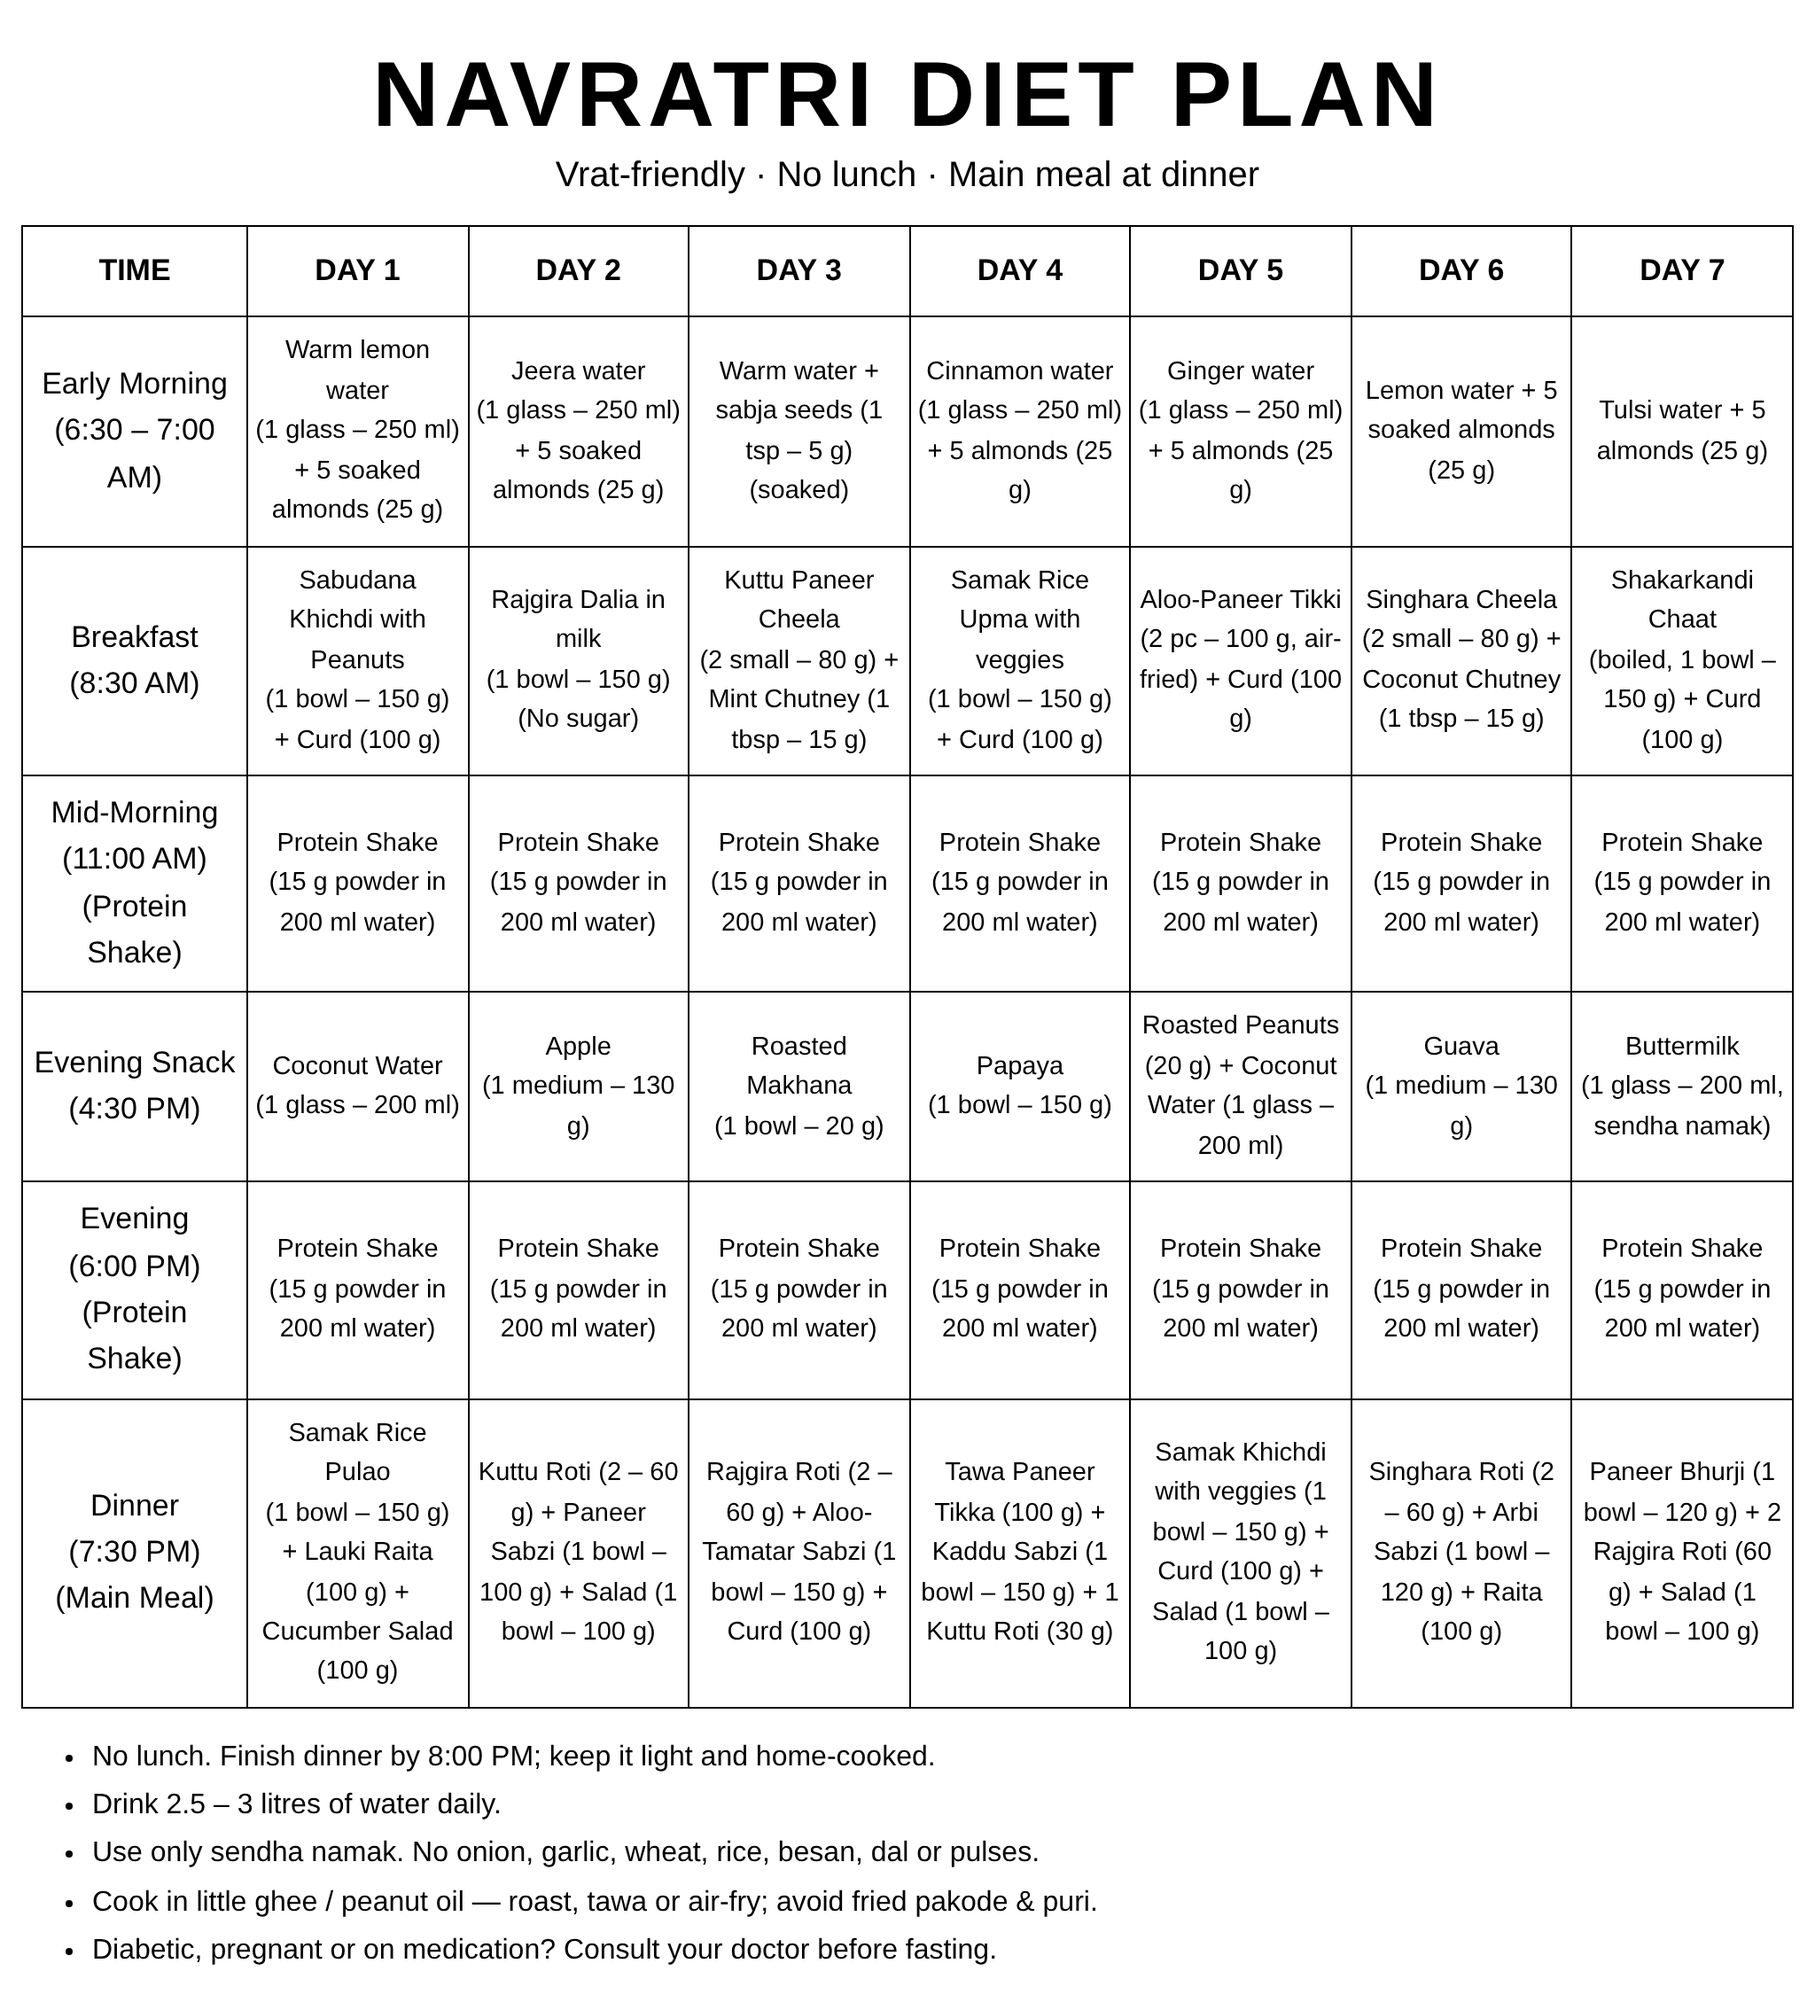
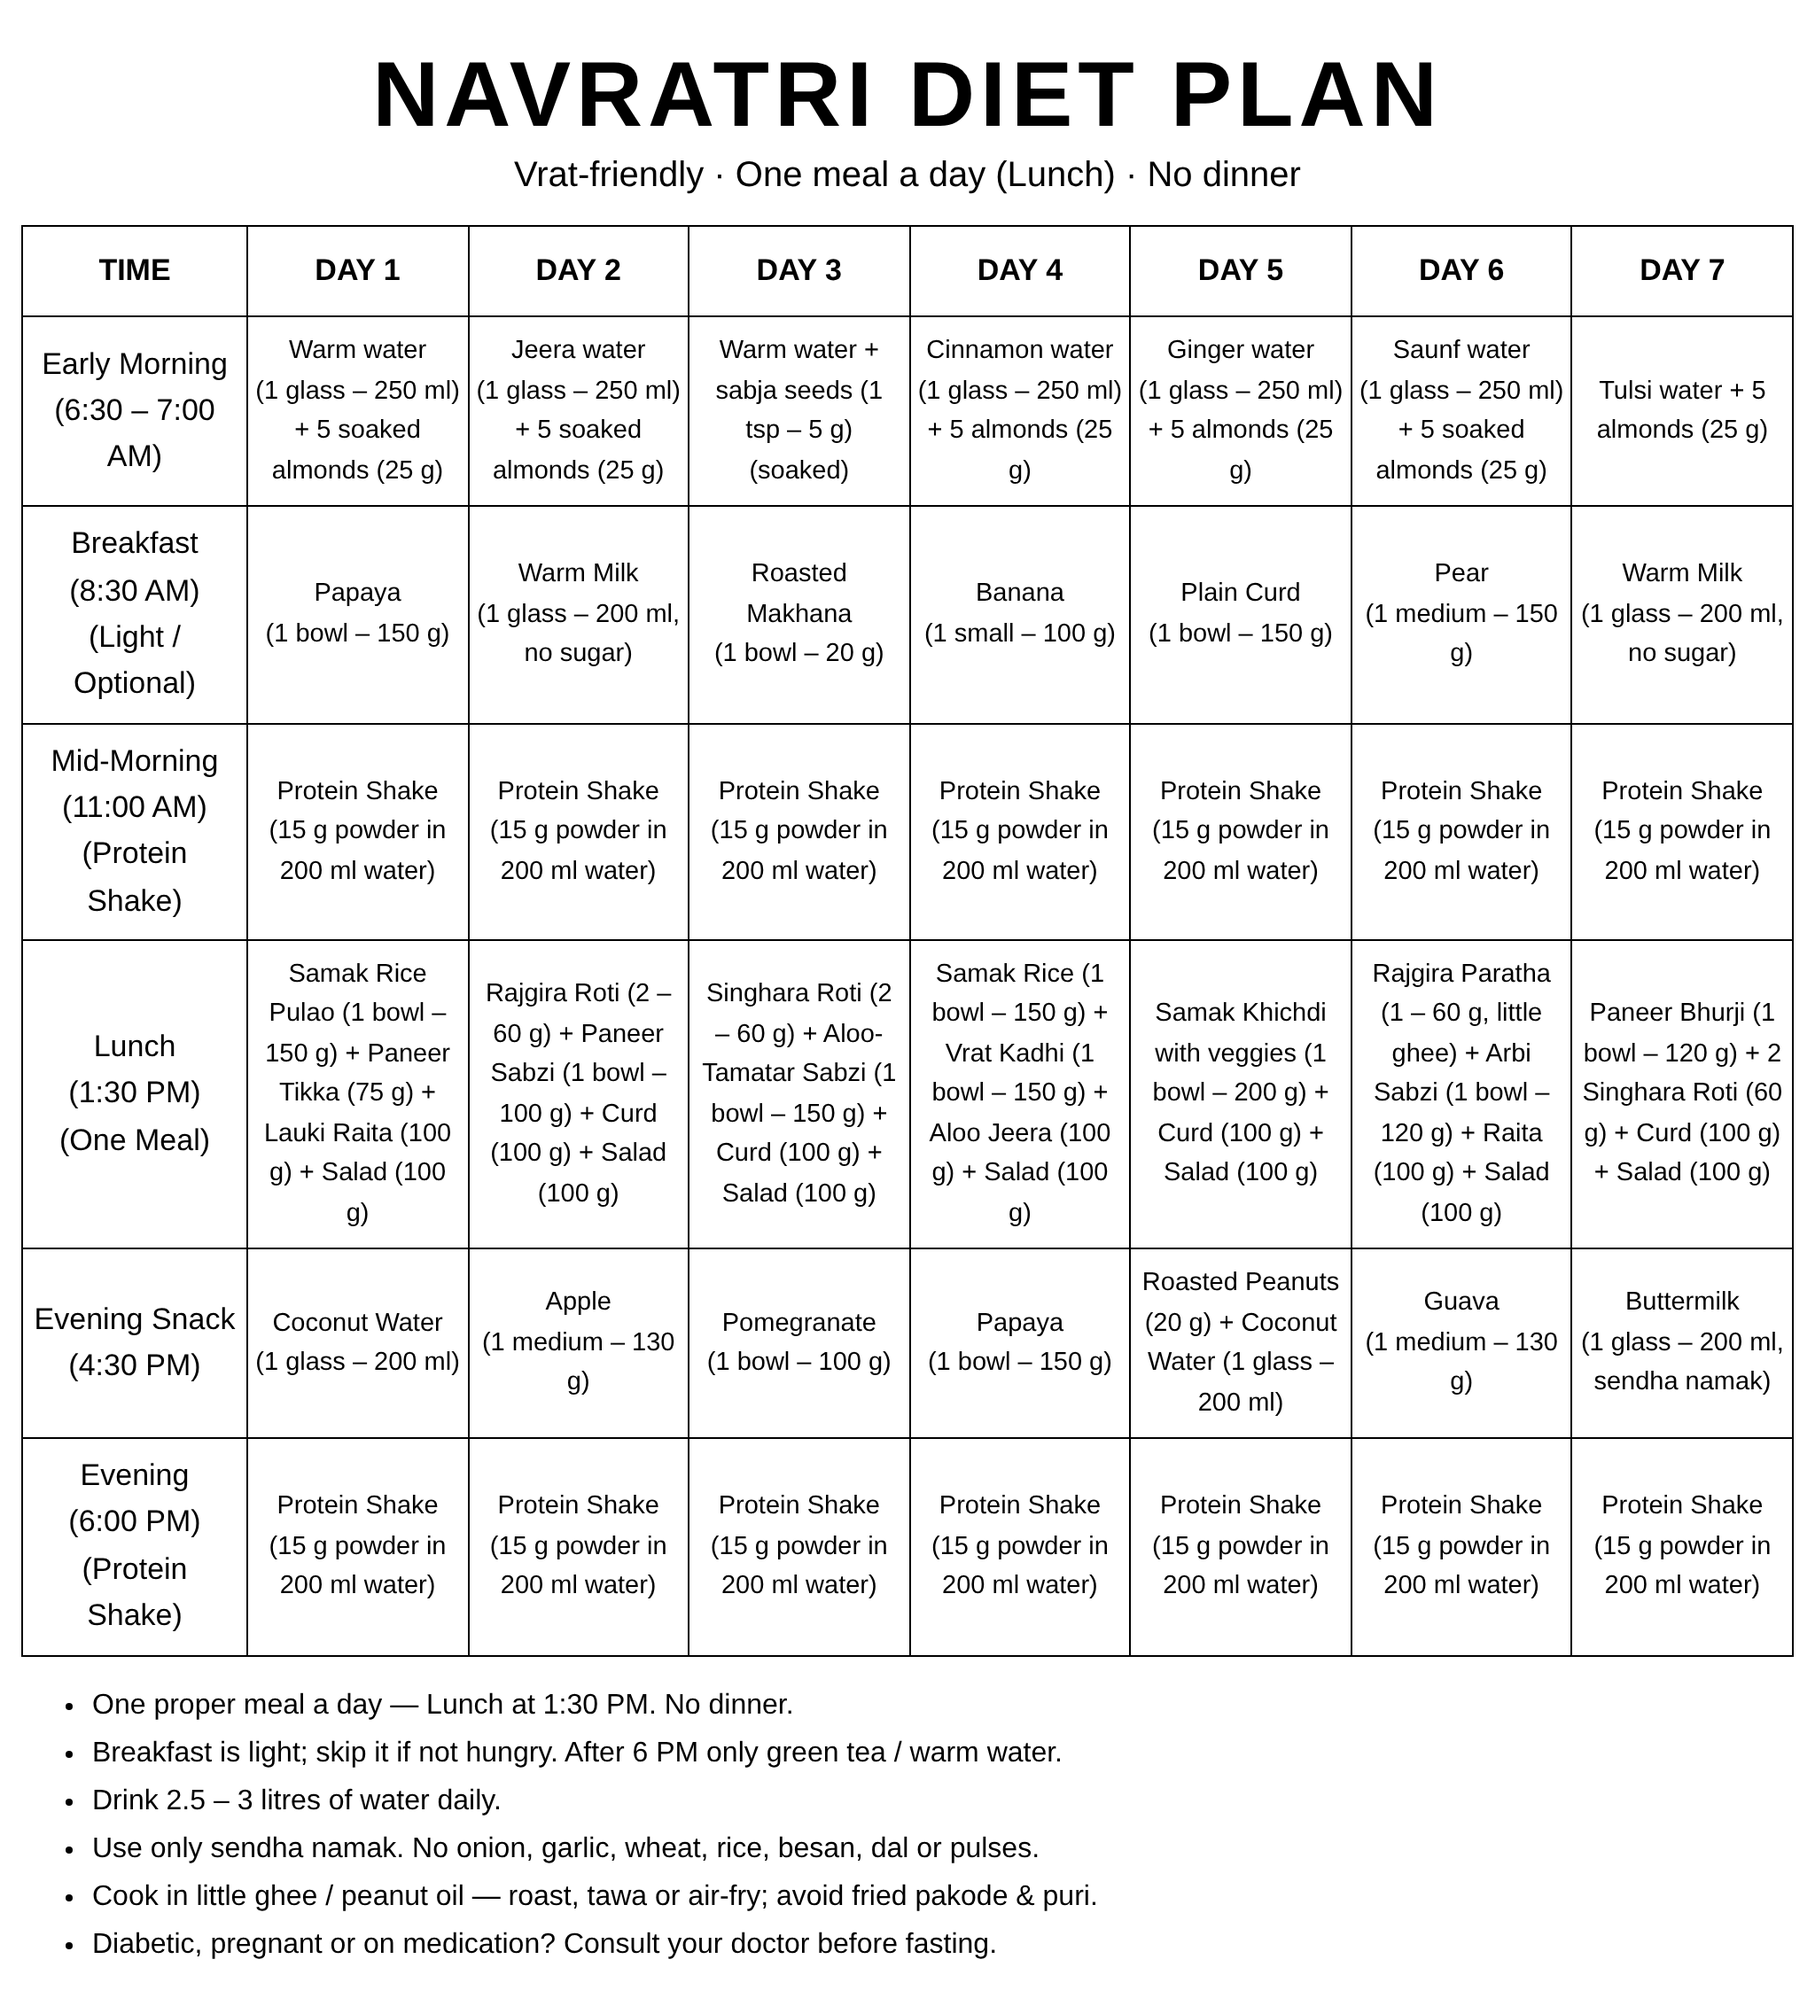
Navratri chart: one meal a day at lunch, light breakfast, no lemon water or kuttu
Claude-Session: https://claude.ai/code/session_01Hb85QWsiyrBDrnGKrgDRLs

diff --git a/charts/navratri-diet-plan.html b/charts/navratri-diet-plan.html
@@ -15,55 +15,19 @@ tr.skip td.x{font-size:18px;}
 ul{margin:14px 0 0 40px;padding:0;font-size:16px;line-height:1.7}
 </style></head><body><div class="page">
 <h1>NAVRATRI DIET PLAN</h1>
-<div class="sub">Vrat-friendly &middot; No lunch &middot; Main meal at dinner</div>
+<div class="sub">Vrat-friendly &middot; One meal a day (Lunch) &middot; No dinner</div>
 <table>
 <tr><th>TIME</th><th>DAY 1</th><th>DAY 2</th><th>DAY 3</th><th>DAY 4</th><th>DAY 5</th><th>DAY 6</th><th>DAY 7</th></tr>
-
-<tr><td>Early Morning<br>(6:30 – 7:00 AM)</td>
-<td>Warm lemon water<br>(1 glass – 250 ml) + 5 soaked almonds (25 g)</td>
-<td>Jeera water<br>(1 glass – 250 ml) + 5 soaked almonds (25 g)</td>
-<td>Warm water + sabja seeds (1 tsp – 5 g) (soaked)</td>
-<td>Cinnamon water<br>(1 glass – 250 ml) + 5 almonds (25 g)</td>
-<td>Ginger water<br>(1 glass – 250 ml) + 5 almonds (25 g)</td>
-<td>Lemon water + 5 soaked almonds (25 g)</td>
-<td>Tulsi water + 5 almonds (25 g)</td></tr>
-
-<tr><td>Breakfast<br>(8:30 AM)</td>
-<td>Sabudana Khichdi with Peanuts<br>(1 bowl – 150 g) + Curd (100 g)</td>
-<td>Rajgira Dalia in milk<br>(1 bowl – 150 g)<br>(No sugar)</td>
-<td>Kuttu Paneer Cheela<br>(2 small – 80 g) + Mint Chutney (1 tbsp – 15 g)</td>
-<td>Samak Rice Upma with veggies<br>(1 bowl – 150 g) + Curd (100 g)</td>
-<td>Aloo-Paneer Tikki<br>(2 pc – 100 g, air-fried) + Curd (100 g)</td>
-<td>Singhara Cheela<br>(2 small – 80 g) + Coconut Chutney (1 tbsp – 15 g)</td>
-<td>Shakarkandi Chaat<br>(boiled, 1 bowl – 150 g) + Curd (100 g)</td></tr>
-
-<tr><td>Mid-Morning<br>(11:00 AM)<br>(Protein Shake)</td>
-<td>Protein Shake<br>(15 g powder in 200 ml water)</td><td>Protein Shake<br>(15 g powder in 200 ml water)</td><td>Protein Shake<br>(15 g powder in 200 ml water)</td><td>Protein Shake<br>(15 g powder in 200 ml water)</td><td>Protein Shake<br>(15 g powder in 200 ml water)</td><td>Protein Shake<br>(15 g powder in 200 ml water)</td><td>Protein Shake<br>(15 g powder in 200 ml water)</td></tr>
-
-
-<tr><td>Evening Snack<br>(4:30 PM)</td>
-<td>Coconut Water<br>(1 glass – 200 ml)</td>
-<td>Apple<br>(1 medium – 130 g)</td>
-<td>Roasted Makhana<br>(1 bowl – 20 g)</td>
-<td>Papaya<br>(1 bowl – 150 g)</td>
-<td>Roasted Peanuts (20 g) + Coconut Water (1 glass – 200 ml)</td>
-<td>Guava<br>(1 medium – 130 g)</td>
-<td>Buttermilk<br>(1 glass – 200 ml, sendha namak)</td></tr>
-
-<tr><td>Evening<br>(6:00 PM)<br>(Protein Shake)</td>
-<td>Protein Shake<br>(15 g powder in 200 ml water)</td><td>Protein Shake<br>(15 g powder in 200 ml water)</td><td>Protein Shake<br>(15 g powder in 200 ml water)</td><td>Protein Shake<br>(15 g powder in 200 ml water)</td><td>Protein Shake<br>(15 g powder in 200 ml water)</td><td>Protein Shake<br>(15 g powder in 200 ml water)</td><td>Protein Shake<br>(15 g powder in 200 ml water)</td></tr>
-
-<tr><td>Dinner<br>(7:30 PM)<br>(Main Meal)</td>
-<td>Samak Rice Pulao<br>(1 bowl – 150 g) + Lauki Raita (100 g) + Cucumber Salad (100 g)</td>
-<td>Kuttu Roti (2 – 60 g) + Paneer Sabzi (1 bowl – 100 g) + Salad (1 bowl – 100 g)</td>
-<td>Rajgira Roti (2 – 60 g) + Aloo-Tamatar Sabzi (1 bowl – 150 g) + Curd (100 g)</td>
-<td>Tawa Paneer Tikka (100 g) + Kaddu Sabzi (1 bowl – 150 g) + 1 Kuttu Roti (30 g)</td>
-<td>Samak Khichdi with veggies (1 bowl – 150 g) + Curd (100 g) + Salad (1 bowl – 100 g)</td>
-<td>Singhara Roti (2 – 60 g) + Arbi Sabzi (1 bowl – 120 g) + Raita (100 g)</td>
-<td>Paneer Bhurji (1 bowl – 120 g) + 2 Rajgira Roti (60 g) + Salad (1 bowl – 100 g)</td></tr>
+<tr><td>Early Morning<br>(6:30 – 7:00 AM)</td><td>Warm water<br>(1 glass – 250 ml) + 5 soaked almonds (25 g)</td><td>Jeera water<br>(1 glass – 250 ml) + 5 soaked almonds (25 g)</td><td>Warm water + sabja seeds (1 tsp – 5 g) (soaked)</td><td>Cinnamon water<br>(1 glass – 250 ml) + 5 almonds (25 g)</td><td>Ginger water<br>(1 glass – 250 ml) + 5 almonds (25 g)</td><td>Saunf water<br>(1 glass – 250 ml) + 5 soaked almonds (25 g)</td><td>Tulsi water + 5 almonds (25 g)</td></tr>
+<tr><td>Breakfast<br>(8:30 AM)<br>(Light / Optional)</td><td>Papaya<br>(1 bowl – 150 g)</td><td>Warm Milk<br>(1 glass – 200 ml, no sugar)</td><td>Roasted Makhana<br>(1 bowl – 20 g)</td><td>Banana<br>(1 small – 100 g)</td><td>Plain Curd<br>(1 bowl – 150 g)</td><td>Pear<br>(1 medium – 150 g)</td><td>Warm Milk<br>(1 glass – 200 ml, no sugar)</td></tr>
+<tr><td>Mid-Morning<br>(11:00 AM)<br>(Protein Shake)</td><td>Protein Shake<br>(15 g powder in 200 ml water)</td><td>Protein Shake<br>(15 g powder in 200 ml water)</td><td>Protein Shake<br>(15 g powder in 200 ml water)</td><td>Protein Shake<br>(15 g powder in 200 ml water)</td><td>Protein Shake<br>(15 g powder in 200 ml water)</td><td>Protein Shake<br>(15 g powder in 200 ml water)</td><td>Protein Shake<br>(15 g powder in 200 ml water)</td></tr>
+<tr><td>Lunch<br>(1:30 PM)<br>(One Meal)</td><td>Samak Rice Pulao (1 bowl – 150 g) + Paneer Tikka (75 g) + Lauki Raita (100 g) + Salad (100 g)</td><td>Rajgira Roti (2 – 60 g) + Paneer Sabzi (1 bowl – 100 g) + Curd (100 g) + Salad (100 g)</td><td>Singhara Roti (2 – 60 g) + Aloo-Tamatar Sabzi (1 bowl – 150 g) + Curd (100 g) + Salad (100 g)</td><td>Samak Rice (1 bowl – 150 g) + Vrat Kadhi (1 bowl – 150 g) + Aloo Jeera (100 g) + Salad (100 g)</td><td>Samak Khichdi with veggies (1 bowl – 200 g) + Curd (100 g) + Salad (100 g)</td><td>Rajgira Paratha (1 – 60 g, little ghee) + Arbi Sabzi (1 bowl – 120 g) + Raita (100 g) + Salad (100 g)</td><td>Paneer Bhurji (1 bowl – 120 g) + 2 Singhara Roti (60 g) + Curd (100 g) + Salad (100 g)</td></tr>
+<tr><td>Evening Snack<br>(4:30 PM)</td><td>Coconut Water<br>(1 glass – 200 ml)</td><td>Apple<br>(1 medium – 130 g)</td><td>Pomegranate<br>(1 bowl – 100 g)</td><td>Papaya<br>(1 bowl – 150 g)</td><td>Roasted Peanuts (20 g) + Coconut Water (1 glass – 200 ml)</td><td>Guava<br>(1 medium – 130 g)</td><td>Buttermilk<br>(1 glass – 200 ml, sendha namak)</td></tr>
+<tr><td>Evening<br>(6:00 PM)<br>(Protein Shake)</td><td>Protein Shake<br>(15 g powder in 200 ml water)</td><td>Protein Shake<br>(15 g powder in 200 ml water)</td><td>Protein Shake<br>(15 g powder in 200 ml water)</td><td>Protein Shake<br>(15 g powder in 200 ml water)</td><td>Protein Shake<br>(15 g powder in 200 ml water)</td><td>Protein Shake<br>(15 g powder in 200 ml water)</td><td>Protein Shake<br>(15 g powder in 200 ml water)</td></tr>
 </table>
 <ul>
-<li>No lunch. Finish dinner by 8:00 PM; keep it light and home-cooked.</li>
+<li>One proper meal a day — Lunch at 1:30 PM. No dinner.</li>
+<li>Breakfast is light; skip it if not hungry. After 6 PM only green tea / warm water.</li>
 <li>Drink 2.5 – 3 litres of water daily.</li>
 <li>Use only sendha namak. No onion, garlic, wheat, rice, besan, dal or pulses.</li>
 <li>Cook in little ghee / peanut oil — roast, tawa or air-fry; avoid fried pakode &amp; puri.</li>
